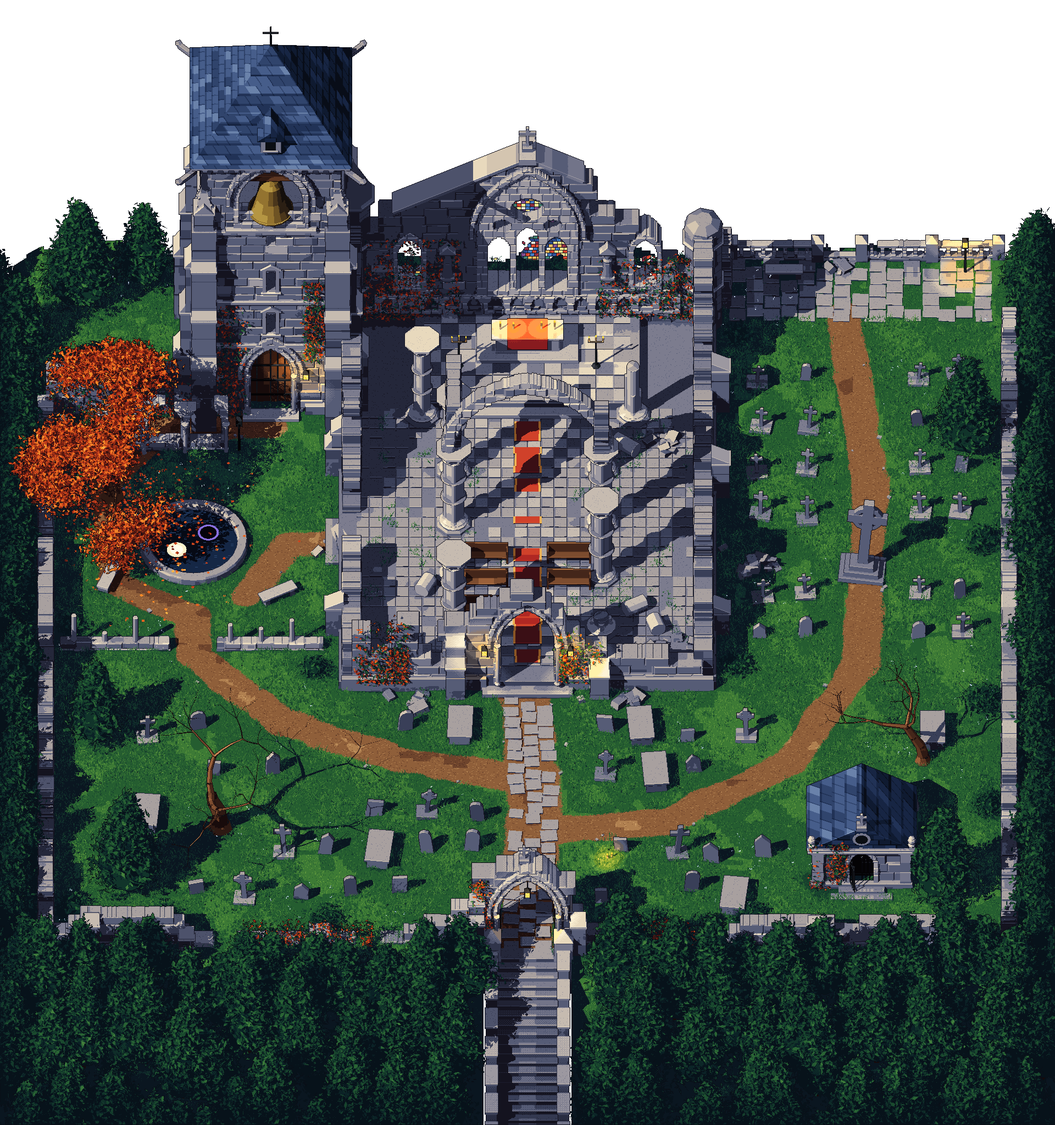
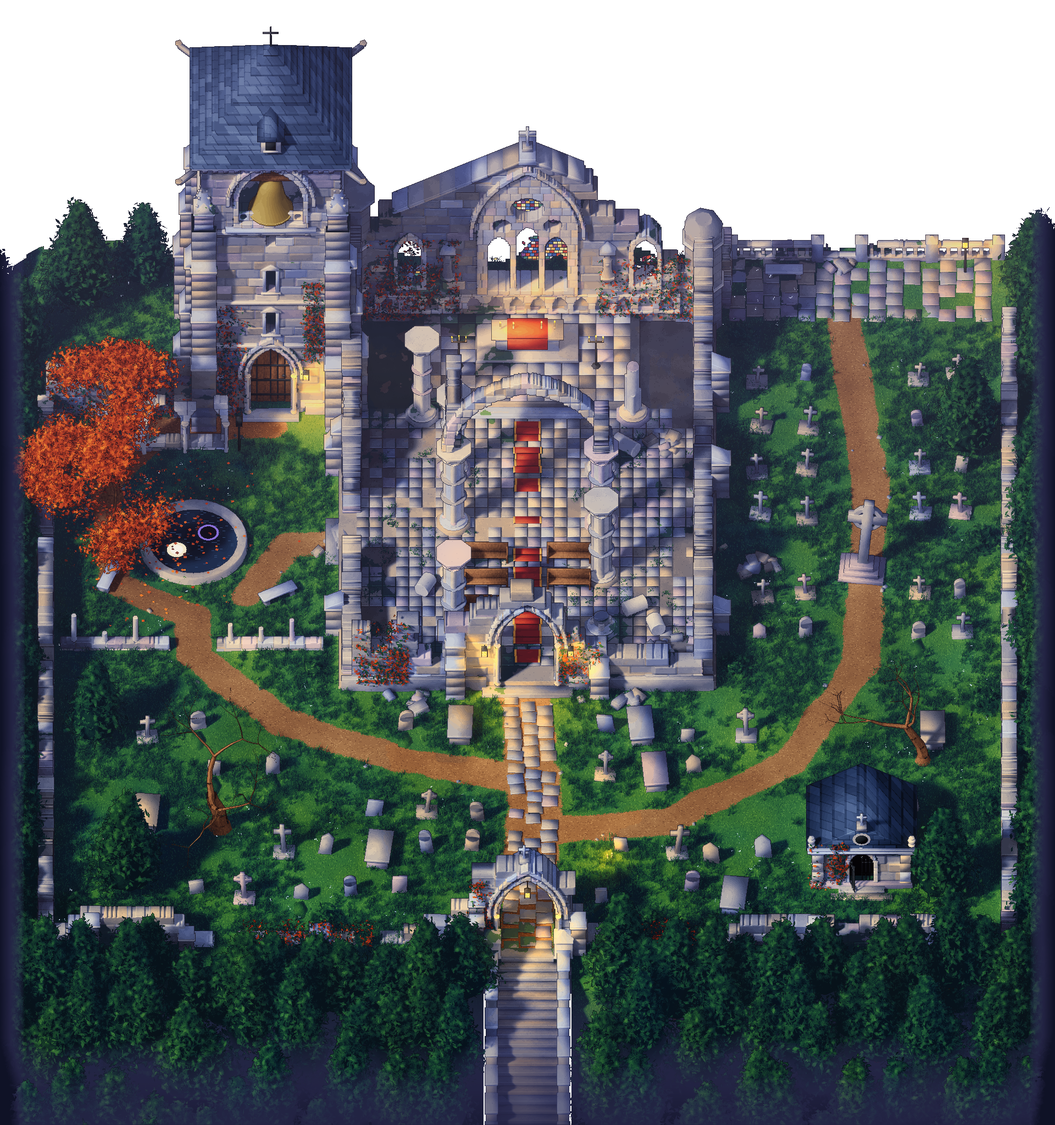
Give the pixel field depth: clay light pass, fine tones, weathering, haze and bloom
scene.py LIGHTPASS=1 renders the place as white clay with key light, open sky
and lamp light in separate channels. pixel.py uses that only as brightness for
each material's ramp, laid in thirds of a step, and adds block-to-block stone
tints, weathering drifts, moss, warm lamp light against blue shadow, distance
haze, mist on the slopes and a little bloom. The page brings back thin mist
and glows over the pixel field.

Claude-Session: https://claude.ai/code/session_014gqNrHvLANzbEvqZmwcDFc

diff --git a/chronicle2/monastery/site/index.html b/chronicle2/monastery/site/index.html
@@ -330,7 +330,7 @@ function start(A, saved) {
     ctx.imageSmoothingEnabled = !PIX;
 
     // glows (faint over the pixel-art field, whose light is already painted in and must not wash the sprite out)
-    const GA = PIX ? .3 : 1;
+    const GA = PIX ? .55 : 1;
     ctx.globalCompositeOperation = 'lighter';
     for (const l of lights) { if (!l.seen) continue; const sp = GL[l.kind], x = l.sx - cam.x, y = l.sy - cam.y, m = sp.width / 2; if (x < -m || y < -m || x > VW + m || y > VH + m) continue;
       const f = l.kind === 'bell' ? .35 + .25 * Math.sin(time * .9) : (RM ? .8 : .72 + .14 * Math.sin(time * 8 + l.ph) + .1 * Math.sin(time * 19.3 + l.ph * 2));
@@ -354,10 +354,10 @@ function start(A, saved) {
     fogX.save(); fogX.translate(-((fcx + t * 5) % 256), -((fcy + t * 1.2) % 256)); fogX.fillStyle = patA; fogX.globalAlpha = .55; fogX.fillRect(0, 0, FW2 + 256, FH2 + 256); fogX.restore();
     fogX.save(); fogX.translate(-((fcx + 256 - (t * 3) % 256) % 256), -((fcy + 90) % 256)); fogX.fillStyle = patB; fogX.globalAlpha = .45; fogX.fillRect(0, 0, FW2 + 256, FH2 + 256); fogX.restore();
     fogX.globalAlpha = 1; fogX.globalCompositeOperation = 'destination-in'; fogX.drawImage(fogMask, cam.x / R, cam.y / R, VW / R, VH / R, 0, 0, FW2, FH2);
-    if (!PIX) { ctx.globalAlpha = .42; ctx.drawImage(fogT, 0, 0, VW, VH); ctx.globalAlpha = 1; }      // the pixel-art field stays clear
+    ctx.globalAlpha = PIX ? .2 : .42; ctx.drawImage(fogT, 0, 0, VW, VH); ctx.globalAlpha = 1;      // thinner over the pixel-art field
 
     if (dbgEl.checked && overlay) ctx.drawImage(overlay, cam.x / R, cam.y / R, VW / R, VH / R, 0, 0, VW, VH);
-    ctx.globalAlpha = PIX ? .3 : 1; ctx.drawImage(vig, 0, 0); ctx.globalAlpha = 1;
+    ctx.globalAlpha = PIX ? .6 : 1; ctx.drawImage(vig, 0, 0); ctx.globalAlpha = 1;
     if (!PIX) { ctx.globalCompositeOperation = 'overlay'; ctx.globalAlpha = .07; ctx.fillStyle = grain; ctx.fillRect(0, 0, VW, VH); }      // canvas grain
     ctx.globalCompositeOperation = 'source-over'; ctx.globalAlpha = 1;
     if (fade > 0) { fade = Math.max(0, fade - dt * .55); ctx.fillStyle = `rgba(12,8,20,${fade * fade})`; ctx.fillRect(0, 0, VW, VH); }

diff --git a/chronicle2/monastery/build/pixel.py b/chronicle2/monastery/build/pixel.py
@@ -73,6 +73,18 @@ def path_dist(x, y, paths):
     return best
 
 
+def boxblur(a, r, n=3):
+    """Mean over a (2r+1) square, n times over: close to a Gaussian, and needs nothing but numpy."""
+    a = a.astype(np.float32)
+    for _ in range(n):
+        for ax in (0, 1):
+            p = np.concatenate([np.repeat(np.take(a, [0], ax), r + 1, ax), a, np.repeat(np.take(a, [-1], ax), r, ax)], ax)
+            c = np.cumsum(p, ax, dtype=np.float64)
+            m = a.shape[ax]
+            a = ((np.take(c, range(2 * r + 1, 2 * r + 1 + m), ax) - np.take(c, range(0, m), ax)) / (2 * r + 1)).astype(np.float32)
+    return a
+
+
 def to_srgb(c):
     c = np.clip(c, 0, 1)
     return np.where(c <= 0.0031308, c * 12.92, 1.055 * c ** (1 / 2.4) - 0.055)
@@ -136,55 +148,69 @@ def paint(bk, meta, P):
     soft = fol | cov                      # leaves and blades: lit as a mass, not by each card's own facing
 
     # ---------------------------------------------------------------- how much light
+    # sun: the key light with its soft edge and bounces, sky: how open a spot is, lampl: lanterns and candles
     ndl = np.clip(vn @ KEY, 0, 1)
     nz = np.clip(vn[..., 2], 0, 1)
-    val = (0.30 + 0.12 * nz) * (0.45 + 0.55 * ao) + 0.70 * ndl * lit
+    light = P.get('light')
+    if light is not None:
+        Lf = np.nan_to_num(light[..., :3].astype(np.float32))
+        Ls = np.stack([boxblur(Lf[..., k], 2, 2) for k in range(3)], -1)        # leaves and blades are lit as a mass
+        Lf = np.where(soft[..., None], Ls, Lf)
+        sun, sky, lampl = Lf[..., 0] / 0.76, Lf[..., 1] / 0.8, Lf[..., 2]
+    else:                                   # no light pass: the plain shadow test and the lamp distances stand in for it
+        sun, sky, lampl = ndl * lit, 0.25 + 0.75 * ao, None
+    E = 0.80 * np.clip(sun, 0, 1.3) + 0.30 * np.clip(sky, 0, 1.2)
+    lv = 0.55 + 5.3 * E
     tone = np.clip(np.log2(np.maximum(lum, 1e-4) / ref), -1.2, 1.2)        # this face against its material: block to block
-    val = val + 0.10 * tone
-    val = np.where(soft, 0.50 + 0.36 * lit + 0.22 * tone + 0.35 * (ao - 0.75), val)
+    lv = lv + np.where(soft, 1.5 * tone, np.where(ter, 0.0, 0.75 * tone)) + SHIFT[cls]
+
+    # ---- the materials' own life: drifts of colour that follow the surface, so nothing is one flat tint
+    drift = fbm(wx * 1.0, wy + z * 1.4, 4.2, 11.0) - 0.5                      # broad weathering, wraps round corners
+    fine = fbm(wx, wy + z * 1.4, 0.9, 13.0) - 0.5
+    grain = hash01(ii, jj, 17.0) - 0.5
     patchy = (fbm(wx, wy, 5.0, 1.0) - 0.5) * 2.4 + (fbm(wx, wy, 1.3, 7.0) - 0.5) * 1.2      # lighter and darker drifts in the grass
-    val = np.where(ter, val - 0.10 * tone + 0.075 * np.round(patchy), val)
-    lv = (val - 0.08) / 0.15 + SHIFT[cls]
+    stonelike = (cls == CID['stone']) | (cls == CID['pale'])
+    lv = lv + np.where(stonelike, 1.5 * drift + 0.7 * fine + 0.14 * grain, 0.0)
+    lv = lv + np.where(ter, 0.55 * patchy + 0.3 * grain, 0.0)
+    lv = lv + np.where(cls == CID['wood'], 0.9 * (hash01(np.floor(ii / 2), np.floor((wy + z) * 9), 19.0) - 0.5), 0.0)
 
     # small marks drawn into flat ground: blades in the grass, grit on the paths, pits in old stone
     tick = hash01(ii, np.floor(jj / 2), 3.0)
     spk = hash01(np.floor(ii / 2), jj, 5.0)
     grass_t = ter & ~dirt
-    lv = lv + np.where(grass_t & (tick < 0.075), 1.0, 0.0) - np.where(grass_t & (tick > 0.94), 1.0, 0.0)
+    lv = lv + np.where(grass_t & (tick < 0.085), 1.0, 0.0) - np.where(grass_t & (tick > 0.93), 1.0, 0.0)
     lv = lv + np.where(dirt & (spk < 0.05), 1.0, 0.0) - np.where(dirt & (spk > 0.955), 1.0, 0.0)
     roof = is_('roof')                          # slates: a dark line under each course, and joints that break bond
     course = np.floor(z * 2.3)
     lv = lv - np.where(roof & ((z * 2.3) % 1.0 < 0.2), 1.0, 0.0) - np.where(roof & (((wx + wy) * 1.5 + course * 0.5) % 1.0 < 0.1), 1.0, 0.0)
-    lv = lv + np.where(roof, np.round((hash01(course, np.floor((wx + wy) * 1.5 + course * 0.5), 4.0) - 0.5) * 1.6), 0.0)
+    lv = lv + np.where(roof, (hash01(course, np.floor((wx + wy) * 1.5 + course * 0.5), 4.0) - 0.5) * 1.5 + 1.2 * drift, 0.0)
     flat_stone = stone & (nz > 0.9)
-    lv = lv - np.where(flat_stone & (hash01(ii, jj, 7.0) > 0.975), 1.0, 0.0)
+    lv = lv - np.where(flat_stone & (hash01(ii, jj, 7.0) > 0.993), 1.0, 0.0)
+    lv = lv + np.where(soft & (tick < 0.06), 0.8, 0.0) - np.where(soft & (tick > 0.95), 0.8, 0.0)
 
-    # ---------------------------------------------------------------- lanterns and candles: pools of warm light, in steps
-    glow = np.zeros((H, W), np.float32)
-    for l in meta['lights']:
-        if l['kind'] == 'bell':
-            continue
-        rad = float(l['r']) * 0.95
-        sx, sy = (l['x'] - X0) * S, SY0 - (l['y'] * SIN + l['z'] * COS) * S
-        x0, x1 = int(max(0, sx - rad * S)), int(min(W, sx + rad * S))
-        y0, y1 = int(max(0, sy - rad * S * 1.4)), int(min(H, sy + rad * S * 1.4))
-        if x1 <= x0 or y1 <= y0:
-            continue
-        sl = (slice(y0, y1), slice(x0, x1))
-        dx, dy, dz = l['x'] - wx[sl], l['y'] - wy[sl], l['z'] - z[sl]
-        d = np.sqrt(dx * dx + dy * dy + dz * dz) + 1e-4
-        n = vn[sl]
-        f = np.clip((n[..., 0] * dx + n[..., 1] * dy + n[..., 2] * dz) / d, 0, 1) * 0.75 + 0.25
-        f = np.where(soft[sl], 0.7, f)
-        w = np.clip(1 - d / rad, 0, 1) ** 2 * f
-        glow[sl] = np.maximum(glow[sl], w)
-    glow = glow + (BAYER[(jj.astype(int) % 4), (ii.astype(int) % 4)] - 0.5) * 0.035 * (glow > 0.03)     # a dithered rim to each step
-    lv = lv + np.where(glow > 0.09, 1.0, 0.0) + np.where(glow > 0.26, 1.0, 0.0) + np.where(glow > 0.55, 1.0, 0.0)
-    warm = np.where(glow > 0.5, 2, np.where(glow > 0.16, 1, 0))
-
-    # ---------------------------------------------------------------- the slopes fall away into the dark
-    fall = np.clip((-0.7 - z) / 1.5, 0, 6) + np.clip((np.abs(wx) - 28.3) / 0.9, 0, 6)
-    lv = lv - np.floor(fall + BAYER[(jj.astype(int) % 4), (ii.astype(int) % 4)] * 0.9)
+    # ---------------------------------------------------------------- lanterns and candles
+    if lampl is None:
+        glow = np.zeros((H, W), np.float32)
+        for l in meta['lights']:
+            if l['kind'] == 'bell':
+                continue
+            rad = float(l['r']) * 0.95
+            sx, sy = (l['x'] - X0) * S, SY0 - (l['y'] * SIN + l['z'] * COS) * S
+            x0, x1 = int(max(0, sx - rad * S)), int(min(W, sx + rad * S))
+            y0, y1 = int(max(0, sy - rad * S * 1.4)), int(min(H, sy + rad * S * 1.4))
+            if x1 <= x0 or y1 <= y0:
+                continue
+            sl = (slice(y0, y1), slice(x0, x1))
+            dx, dy, dz = l['x'] - wx[sl], l['y'] - wy[sl], l['z'] - z[sl]
+            d = np.sqrt(dx * dx + dy * dy + dz * dz) + 1e-4
+            n = vn[sl]
+            f = np.clip((n[..., 0] * dx + n[..., 1] * dy + n[..., 2] * dz) / d, 0, 1) * 0.75 + 0.25
+            f = np.where(soft[sl], 0.7, f)
+            glow[sl] = np.maximum(glow[sl], np.clip(1 - d / rad, 0, 1) ** 2 * f)
+    else:
+        glow = 1.0 - np.exp(-lampl * P.get('lamp_gain', 5.0))
+    lv = lv + 2.2 * glow
+    lv = np.where(lv > 5.6, 5.6 + (lv - 5.6) * 0.45, lv)          # the brightest tones are kept for edges and lamp light
 
     # ---------------------------------------------------------------- outlines and edge lights
     hit = ~np.isnan(zmap)
@@ -206,16 +232,42 @@ def paint(bk, meta, P):
     thr = np.where(kind == 3, 1.1, 0.3)
     inner = (jump > thr) & (jump <= 1.4) & ~vis_cover
     outer = (jump > 1.4) & ~vis_cover
-    lv = np.where(inner, np.minimum(lv - 2.5, 1.0), lv)
+    lv = np.where(inner, np.minimum(lv - 2.2, 1.6), lv)
 
     # ---------------------------------------------------------------- tones to colours
-    idx = np.clip(np.floor(lv), 0, 7).astype(np.int64)
-    rgb = TONES[cls, idx]
-    WARM1 = np.clip(TONES * np.array([1.10, 0.99, 0.80], np.float32) + np.array([0.03, 0.01, 0.0], np.float32), 0, 1)
-    WARM2 = np.clip(TONES * np.array([1.18, 1.0, 0.66], np.float32) + np.array([0.07, 0.03, 0.0], np.float32), 0, 1)
-    rgb = np.where((warm == 1)[..., None], WARM1[cls, idx], rgb)
-    rgb = np.where((warm == 2)[..., None], WARM2[cls, idx], rgb)
-    rgb = np.where(outer[..., None], TONES[cls, 0] * 0.55 + OUTLINE * 0.45, rgb)
+    Q = float(P.get('steps', 3))                    # tones are laid in thirds of a ramp step: bands, but fine ones
+    lvq = np.clip(np.floor(lv * Q + 0.5) / Q, 0, 7)
+    i0 = np.floor(lvq).astype(np.int64)
+    fr = (lvq - i0)[..., None]
+    rgb = TONES[cls, i0] * (1 - fr) + TONES[cls, np.minimum(i0 + 1, 7)] * fr
+
+    # the stones are not all one stone: some warm, some cold, some gone green where it stays damp
+    bkey = vc[..., 0] * 3.1 + vc[..., 1] * 7.3 + vc[..., 2] * 13.7
+    bt = hash01(np.round(bkey * 400), 1.0, 2.0)
+    tint = np.ones((H, W, 3), np.float32)
+    tint = np.where((stonelike & (bt > 0.80))[..., None], np.array([1.08, 1.00, 0.88], np.float32), tint)
+    tint = np.where((stonelike & (bt < 0.16))[..., None], np.array([0.90, 0.97, 1.10], np.float32), tint)
+    tint = np.where((stonelike & (bt > 0.45) & (bt < 0.55))[..., None], np.array([1.03, 0.97, 1.04], np.float32), tint)
+    wd = np.clip(drift * 2.0, -0.5, 0.5)[..., None]                           # broad drift: warm where dry, cold where not
+    tint = tint * np.where(stonelike[..., None], 1 + wd * np.array([0.10, 0.02, -0.12], np.float32), 1.0)
+    rgb = rgb * tint
+    damp = np.clip(1.15 - np.clip(sky, 0, 1.2) * 1.25, 0, 1) * np.clip(1 - sun * 2.5, 0, 1)      # hemmed in and never in the light
+    mossy = stonelike & ((0.8 * fbm(wx, wy + z, 2.6, 23.0) + 0.25 * fbm(wx, wy + z, 0.5, 29.0) + 0.5 * damp + 0.10 * nz) > 0.93)
+    moss_c = TONES[CID['grass'], np.clip(i0 - 1, 0, 7)] * 0.75 + rgb * 0.25
+    rgb = np.where(mossy[..., None], moss_c, rgb)
+    dry = (fbm(wx, wy, 3.1, 31.0) - 0.5)[..., None]                           # the grass turns a little toward straw or toward blue-green
+    rgb = np.where(grass_t[..., None], rgb * (1 + dry * np.array([0.55, 0.12, -0.5], np.float32)), rgb)
+    rgb = np.where((cls == CID['leaf'])[..., None], rgb * (1 + (fbm(wx, wy, 2.3, 37.0) - 0.5)[..., None] * np.array([0.5, 0.1, -0.3], np.float32)), rgb)
+
+    # lamp light is warm: it lifts the tone and turns the colour toward amber
+    gq = np.floor(np.clip(glow, 0, 1) * 8 + 0.5) / 8
+    warmc = rgb * np.array([1.22, 1.0, 0.62], np.float32) + np.array([0.10, 0.045, 0.0], np.float32)
+    rgb = rgb + (warmc - rgb) * np.clip(gq * 1.25, 0, 1)[..., None]
+    # shadow under an open sky is blue; shadow in a hole is nearly black violet
+    shade = np.clip(1 - sun * 1.6, 0, 1) * (1 - np.clip(glow * 2, 0, 1))
+    rgb = rgb * (1 + (shade * np.clip(sky, 0, 1))[..., None] * np.array([-0.06, 0.0, 0.10], np.float32))
+    rgb = np.clip(rgb, 0, 1)
+    rgb = np.where(outer[..., None], rgb * 0.22 + TONES[cls, 0] * 0.35 + OUTLINE * 0.43, rgb)
     # things that give light or are painted flat
     if glass.any():
         # a short list of glass colours from the same family as the sprites, with dark leading between the panes
@@ -247,6 +299,26 @@ def paint(bk, meta, P):
         m2 = disc(px_ + 0.85, py_ + 0.75, 0.60)
         rgb = np.where(m2[..., None], hexs('#8a6fe0')[0], rgb)
         rgb = np.where(disc(px_ + 0.85, py_ + 0.75, 0.47)[..., None], hexs('#05040c')[0], rgb)
+
+    # ---------------------------------------------------------------- air: distance, and the mist the hill stands in
+    glowing = lamp | flame
+    far = np.clip((wy - 14.0) / 52.0, 0, 1) ** 1.2                            # toward the north end of the hill
+    HAZE = np.array(P.get('haze', (0.50, 0.41, 0.60)), np.float32)
+    rgb = rgb + (HAZE - rgb) * (P.get('haze_k', 0.24) * far * ~glowing)[..., None]
+    low = np.clip((-0.6 - z) / 7.0, 0, 1) + np.clip((np.abs(wx) - 28.6) / 1.4, 0, 1)
+    low = np.clip(low + (fbm(wx, wy, 6.0, 41.0) - 0.5) * 0.25 * (low > 0), 0, 1)
+    MIST1, MIST2 = np.array([0.24, 0.23, 0.42], np.float32), np.array([0.06, 0.07, 0.15], np.float32)
+    mist = MIST1 + (MIST2 - MIST1) * low[..., None]
+    rgb = rgb + (mist - rgb) * (np.clip(low * 1.7, 0, 1) ** 0.8)[..., None]
+
+    # ---------------------------------------------------------------- bloom: bright things spill a little light
+    hot = np.clip(rgb.max(-1) - 0.80, 0, 1)[..., None] * rgb * 2.5
+    hot = np.where(glowing[..., None], np.array([1.0, 0.72, 0.30], np.float32), hot) * seen[..., None]
+    near = np.stack([boxblur(hot[..., k], 5, 3) for k in range(3)], -1)
+    wide = np.stack([boxblur(np.where(glowing, c, 0.0), 22, 3) for c in (1.0, 0.62, 0.25)], -1)
+    rgb = 1 - (1 - rgb) * (1 - np.clip(0.55 * near, 0, 0.8)) * (1 - np.clip(P.get('bloom', 5.0) * wide, 0, 0.5))
+    rgb = np.where(glowing[..., None], np.maximum(rgb, np.where((hash01(ii, jj, 1.0) < 0.35)[..., None], FLAME[0], FLAME[1])), rgb)
+    rgb = np.clip(rgb, 0, 1)
 
     alpha = seen.astype(np.float32)
     mid = (TONES[cls, 4] * 255 + 0.5).astype(np.uint8)

diff --git a/chronicle2/monastery/build/scene.py b/chronicle2/monastery/build/scene.py
@@ -1461,6 +1461,45 @@ if os.environ.get('NORENDER') != '1':
     bpy.ops.render.render(write_still=True)
     print('rendered in', round(time.time() - T0, 1), 's')
 
+# ---------------------------------------------------------------- light pass for the pixel-art painter
+# One more render, of the place as plain white clay, with each kind of light in its own colour channel:
+# red = the key light with its bounces, green = open sky (how hemmed in a spot is), blue = lanterns and candles.
+# pixel.py turns these into tones of each material's colour ramp, so the painted field gets soft shadows, bounce
+# light and pools of lamp light without taking any colour from a render.
+if os.environ.get('LIGHTPASS') == '1':
+    T1 = time.time()
+    for o in list(col.objects):
+        if o.type == 'LIGHT' and o.data.type == 'SUN':
+            o.hide_render = True
+        elif o.type == 'LIGHT':
+            o.data.color = (0.0, 0.0, 1.0)
+    for n in ('lampglass', 'flame', 'moonrefl', 'moonblack', 'flower'):
+        if n in OBJ:
+            OBJ[n].hide_render = True
+    lk = sun('pixel_key', (0.55, 0.45, -0.70), (1.0, 0.0, 0.0), 3.0, float(os.environ.get('KEYSOFT', '5.0')))
+    bg.inputs[0].default_value = (0.0, 1.0, 0.0, 1.0)
+    bg.inputs[1].default_value = 1.0
+    clay = bpy.data.materials.new('clay')
+    clay.use_nodes = True
+    bs = next(n for n in clay.node_tree.nodes if n.type == 'BSDF_PRINCIPLED')
+    bs.inputs['Base Color'].default_value = (0.8, 0.8, 0.8, 1.0)
+    bs.inputs['Roughness'].default_value = 1.0
+    sc.view_layers[0].material_override = clay
+    sc.cycles.samples = int(os.environ.get('LSAMPLES', '48'))
+    sc.cycles.filter_width = 0.01
+    sc.cycles.sample_clamp_indirect = 0.0
+    sc.render.image_settings.file_format = 'OPEN_EXR'
+    sc.render.image_settings.color_depth = '32'
+    sc.render.filepath = os.path.join(WORK, 'light.exr')
+    bpy.ops.render.render(write_still=True)
+    im = bpy.data.images.load(sc.render.filepath)
+    px = np.empty(im.size[0] * im.size[1] * 4, np.float32)
+    im.pixels.foreach_get(px)
+    np.save(os.path.join(WORK, 'light.npy'), px.reshape(im.size[1], im.size[0], 4)[::-1].astype(np.float16))
+    print('light pass in', round(time.time() - T1, 1), 's')
+    if os.environ.get('LIGHTONLY') == '1':
+        sys.exit(0)
+
 meta = {
     'w': W * RES, 'h': H * RES, 'scale': S * RES, 'sin': SIN, 'cos': COS, 'x0': X0, 'sy0': SY0 * RES,
     'dw': int(W * DRES), 'dh': int(H * DRES), 'dscale': S * DRES,

diff --git a/chronicle2/monastery/build/post.py b/chronicle2/monastery/build/post.py
@@ -221,7 +221,12 @@ if not PIX:
 if PIX:
     assert (DH, DW) == (H, W)
     import pixel
-    rgb, a, alb_mid = pixel.paint(bk, meta, dict(S=S, SIN=SIN, COS=COS, W=W, H=H, X0=X0, SY0=SY0))
+    PP = dict(S=S, SIN=SIN, COS=COS, W=W, H=H, X0=X0, SY0=SY0)
+    lp = os.path.join(WORK, 'light.npy')        # the clay light pass (scene.py with LIGHTPASS=1); without it the shading is plainer
+    if os.path.exists(lp) and os.environ.get('NOLIGHT') != '1':
+        PP['light'] = np.load(lp)
+    PP.update(json.loads(os.environ.get('PX', '{}')))       # try other settings: PX='{"steps":4,"haze_k":0.3}'
+    rgb, a, alb_mid = pixel.paint(bk, meta, PP)
     print('colours', len(np.unique((rgb * 255 + 0.5).astype(np.uint8).reshape(-1, 3), axis=0)))
 
 # ---------------------------------------------------------------- save the picture
